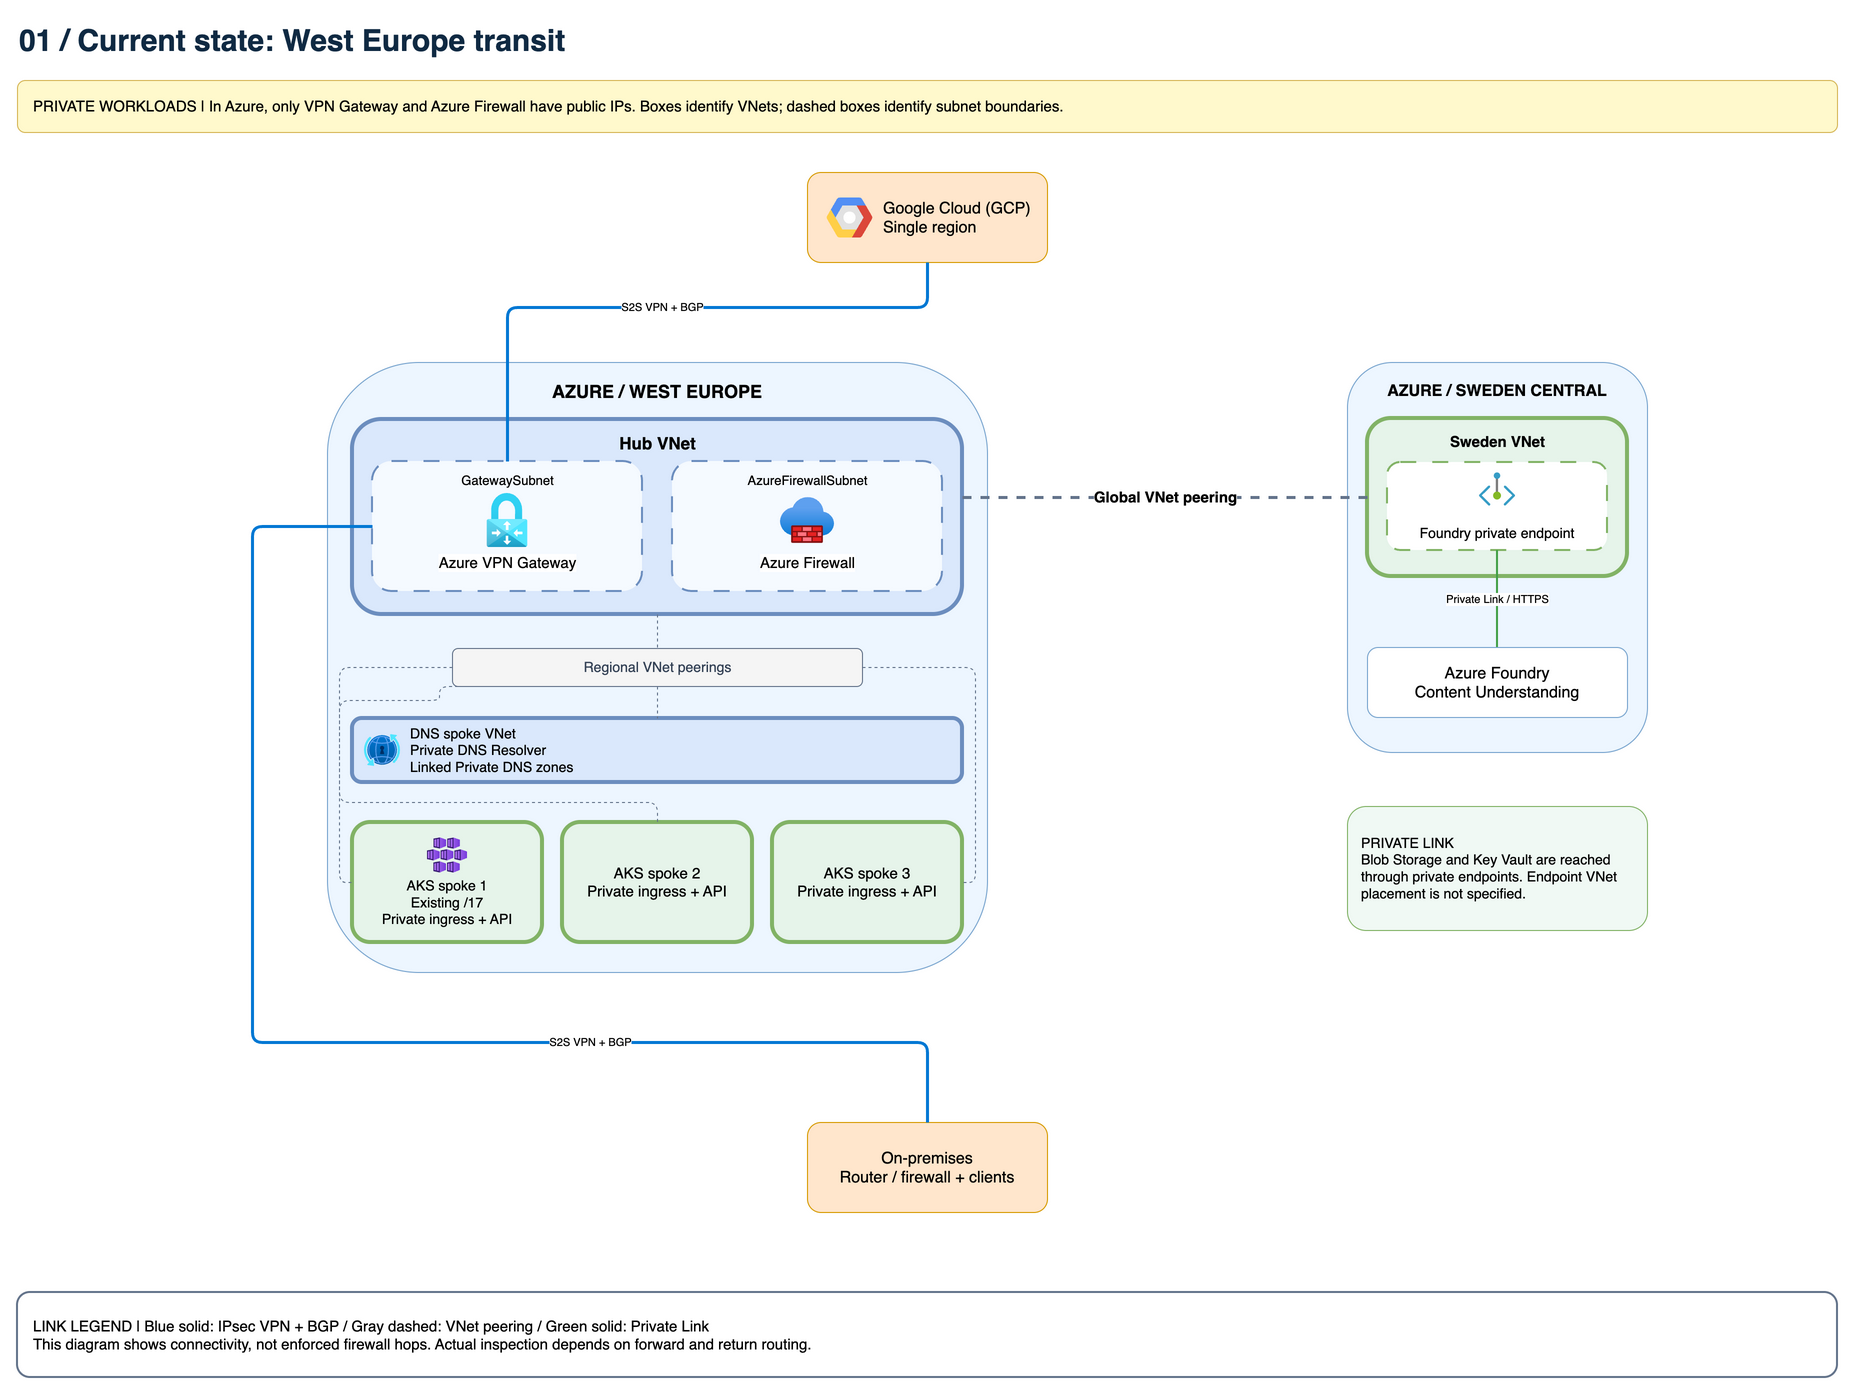
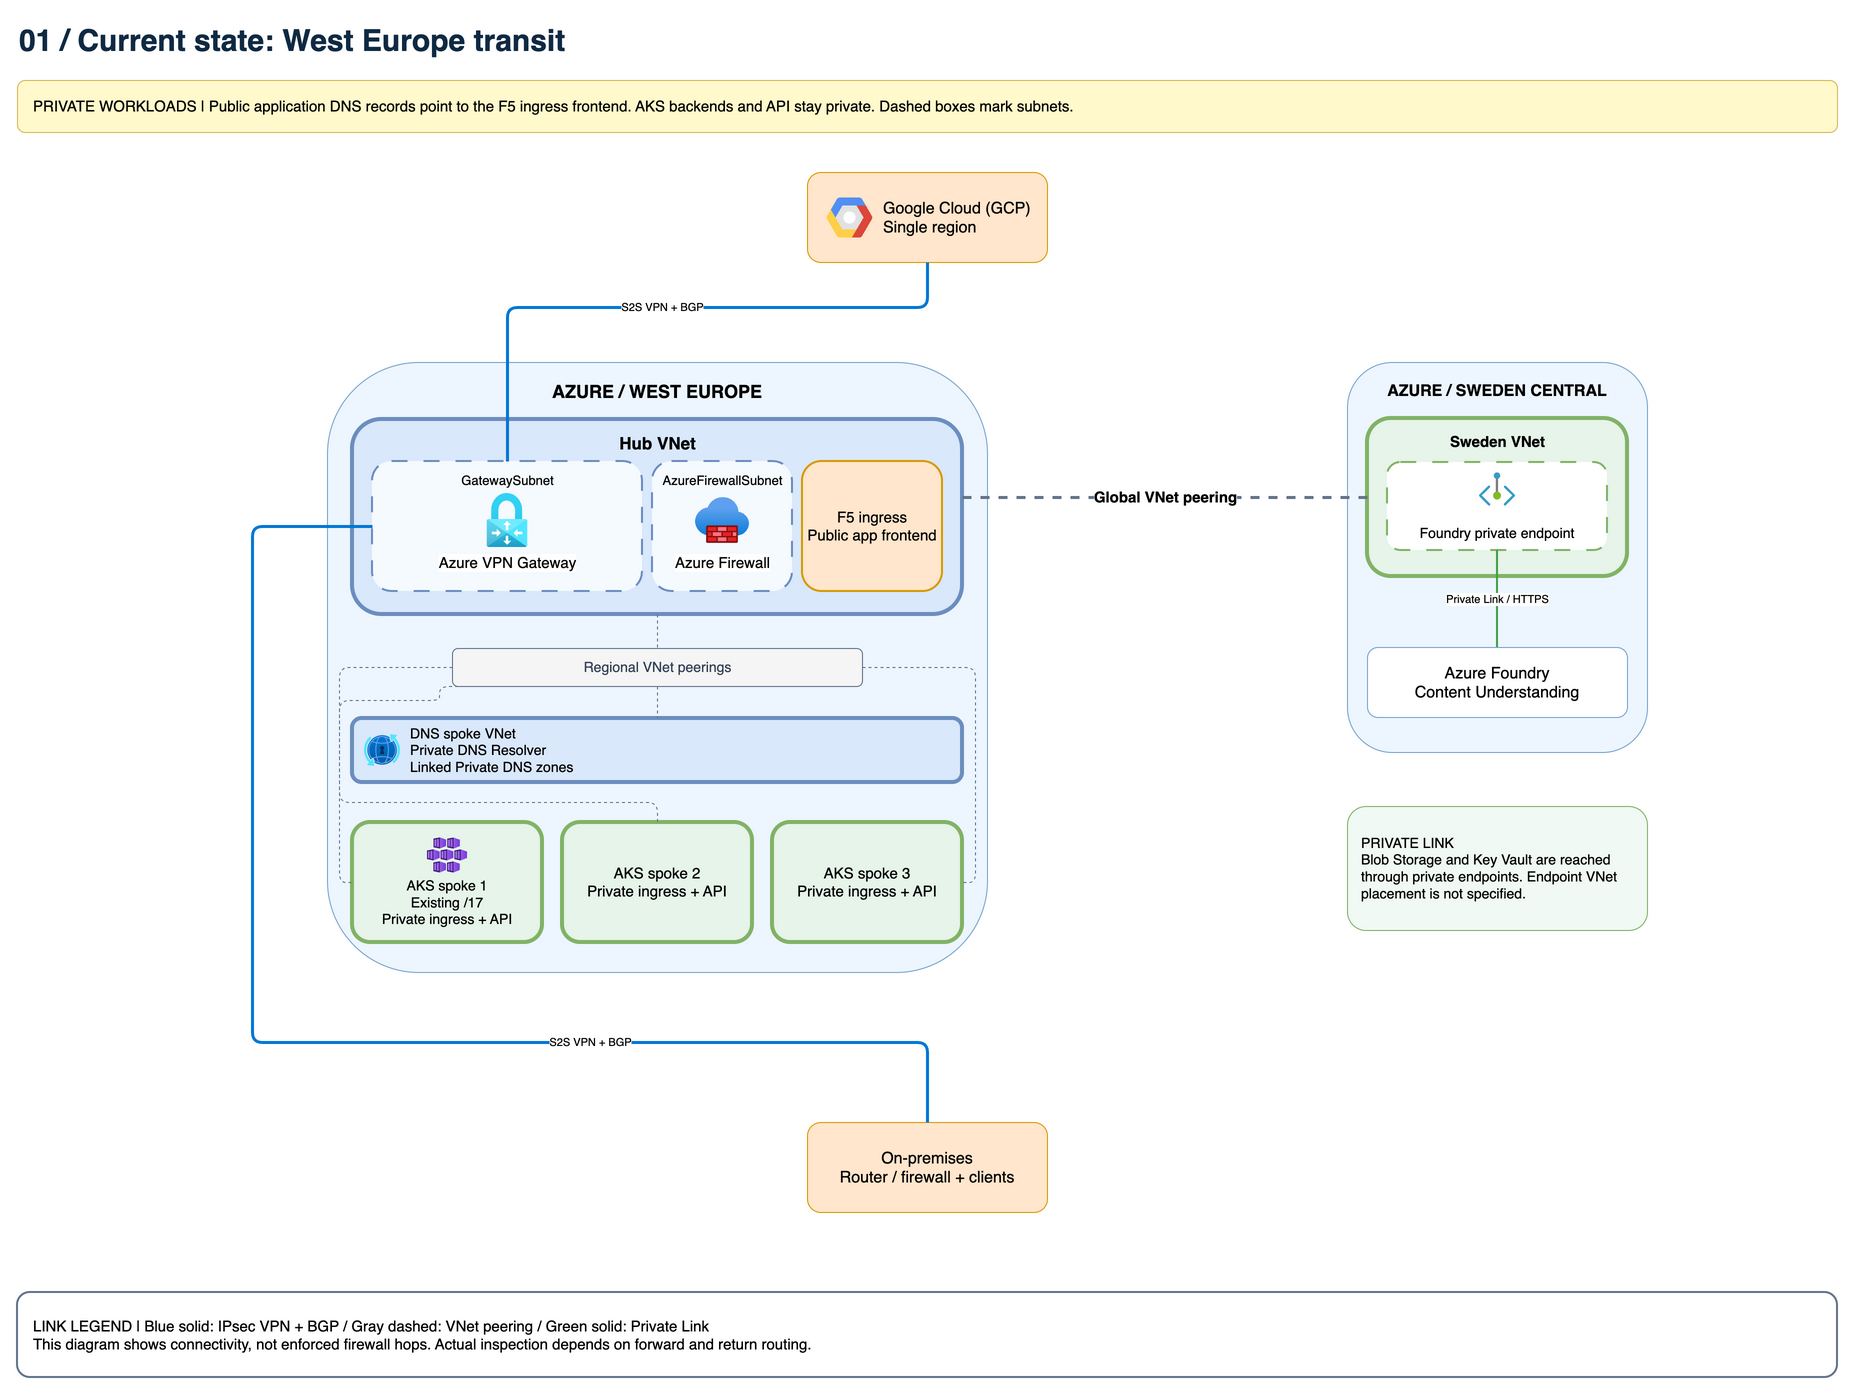
Document F5 ingress and clarify the animated BGP cutover

Changed region(s): [[0.3438, 0.308, 0.5312, 0.4312], [0.125, 0.0616, 0.5625, 0.0924]]

diff --git a/README.md b/README.md
@@ -20,11 +20,11 @@ Start with the [lab runbook](./LAB-RUNBOOK.md) for the build order, expected res
 
 ### Animated BGP cutover
 
-![West Europe advertises the AKS spoke /17, withdraws it, and Israel Central advertises the same prefix to GCP and on-premises](./architecture/03-prefix-cutover-animation.svg)
+![Three AKS spokes start in West Europe. Israel Central takes over the first spoke's /17 advertisement to GCP and on-premises. The other two /17s stay in West Europe.](./architecture/03-prefix-cutover-animation.svg)
 
-[Open the animation on its own](./architecture/03-prefix-cutover-animation.svg). All four VPN links stay up throughout the cutover.
+[Open the animation on its own](./architecture/03-prefix-cutover-animation.svg). Follow `10.42.128.0/17` to both peers and watch their route labels change from West Europe to withdrawn to Israel Central. All four VPN links stay up.
 
-**Starting state:** West Europe connects to on-prem and a single GCP region using site-to-site (S2S) VPN with BGP. The hub VNet contains Azure VPN Gateway and Azure Firewall. A separate DNS spoke contains Azure DNS Private Resolver and is linked to Private DNS zones; three AKS spoke VNets peer with the hub. West Europe also has global VNet peering to Sweden Central for Azure Foundry Content Understanding. Azure workloads use private access: private AKS API/ingress and private endpoints for services including Foundry, Blob Storage, and Key Vault. Only Azure Firewall and VPN Gateway have public IPs.
+**Starting state:** West Europe connects to on-prem and a single GCP region using site-to-site (S2S) VPN with BGP. The hub VNet contains Azure VPN Gateway, Azure Firewall, and F5 ingress. All public application DNS records resolve to the West Europe F5 ingress frontend. A separate DNS spoke contains Azure DNS Private Resolver and is linked to Private DNS zones; three AKS spoke VNets peer with the hub. West Europe also has global VNet peering to Sweden Central for Azure Foundry Content Understanding. The AKS API and backends stay private, and Foundry, Blob Storage, and Key Vault use private endpoints.
 
 **During migration:**
 
@@ -35,7 +35,7 @@ Israel Central --- proposed VNet-to-VNet VPN / BGP --- West Europe
 West Europe --- Global VNet peering --- Sweden Central
 ```
 
-Israel Central mirrors the West Europe design: VPN Gateway and Firewall in the hub, a separate DNS spoke with Private Resolver, and three AKS spokes by the end of the migration. On-prem and GCP each connect directly to **both Azure hubs** throughout the migration. Consider retiring the direct West Europe links only after the migration is complete and the remaining paths have been validated. One logical site connection can still have multiple tunnels for redundancy.
+Israel Central mirrors the West Europe design: VPN Gateway, Firewall, and a new F5 ingress in the hub, a separate DNS spoke with Private Resolver, and three AKS spokes by the end of the migration. On-prem and GCP each connect directly to **both Azure hubs** throughout the migration. Consider retiring the direct West Europe links only after the migration is complete and the remaining paths have been validated. One logical site connection can still have multiple tunnels for redundancy.
 
 ### Inter-region link and Sweden decision
 
@@ -90,6 +90,7 @@ Link the actual private AKS API DNS zones to the resolver VNets that need to ans
 
 ## Application ingress and egress
 
+- **Public ingress:** Keep public application records on the West Europe F5 until each app is ready to cut over. Validate the Israel Central F5 frontend for the app hostname, TLS, and reachability to the private AKS backend before changing its public DNS record. Leave apps that have not migrated on the West Europe F5. The `/17` BGP cutover does not update public DNS.
 - **Private ingress:** Start with a simple HTTPS echo service in each cluster behind an Azure internal load balancer. Add a private Gateway/Ingress frontend later if host-based routing is part of the test; use its actual private frontend IP for the DNS record. Return a region identifier from each backend to prove which region served the request. Test the application endpoint separately from the private AKS API.
 - **Private egress:** Test pods in both regions reaching controlled on-prem and GCP endpoints. Record the observed source IP; for example, Azure CNI Overlay SNATs traffic leaving the cluster to the node IP. Check routes, return paths, and firewall logs separately for each direction.
 - **Internet egress:** Pick and document the AKS outbound type. If the lab must match the no-public-workload-IP constraint, do not use a `loadBalancer` outbound baseline that creates a public IP; use the approved egress path or a supported network-isolated configuration. If preserving firewall-controlled egress via AKS `userDefinedRouting`, document the required route separately from BGP transit. Confirm AKS dependencies remain reachable and measure the observed source IP for any approved egress.
